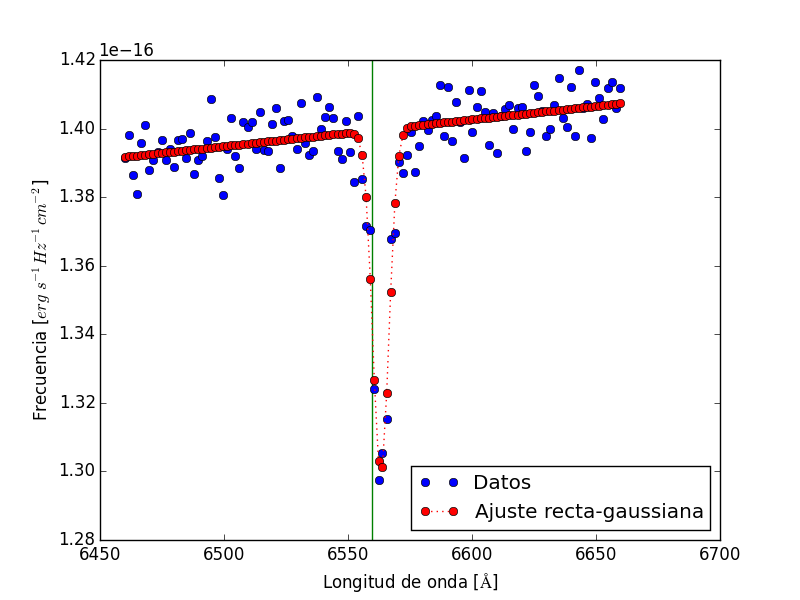
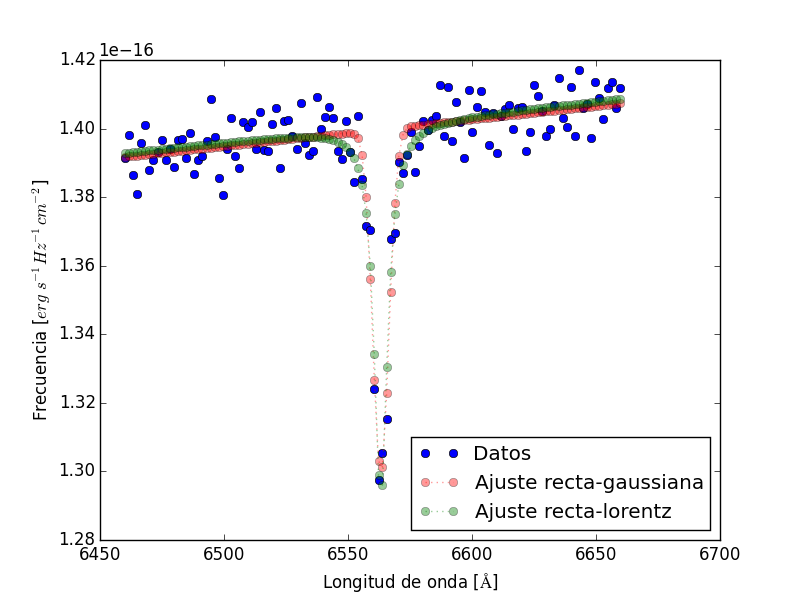
se juntan ambas figuras en una sola

Changed region(s): [[0.125, 0.12, 0.9062, 0.9], [0.5, 0.15, 0.7812, 0.3], [0.5312, 0.84, 0.5938, 0.87]]

diff --git a/p1.py b/p1.py
@@ -24,31 +24,18 @@ sigma = np.sqrt(sum((wavelength-mean)**2)/n)
 # primer caso
 popt1, pcov1 = curve_fit(recta_gaussiana, wavelength, fnu,
                        [1e-16, 1e-20, 1e-17, mean, sigma])
+popt2, pcov2 = curve_fit(recta_lorentz, wavelength, fnu,
+                       [1e-16, 1e-20, 1e-17, mean, sigma])
 fig = plt.figure(1)
 plt.clf()
-plt.axvline(mean, color='g')
 plt.plot(wavelength, fnu, 'o', label='Datos')
 plt.plot(wavelength, recta_gaussiana(wavelength,*popt1),'ro:',
-         label='Ajuste recta-gaussiana')
+         label='Ajuste recta-gaussiana', alpha=0.4)
+plt.plot(wavelength, recta_lorentz(wavelength,*popt2),'go:',
+         label='Ajuste recta-lorentz', alpha=0.4)
 plt.xlabel('Longitud de onda [$\AA$]')
 plt.ylabel('Frecuencia [$erg$ $s^{-1} Hz^{-1} cm^{-2}$]')
 plt.legend(loc=4)
 plt.draw()
 plt.show()
 plt.savefig('figura1.png')
-
-#segundo caso
-popt2, pcov2 = curve_fit(recta_lorentz, wavelength, fnu,
-                       [1e-16, 1e-20, 1e-17, mean, sigma])
-fig = plt.figure(2)
-plt.clf()
-plt.axvline(mean, color='g')
-plt.plot(wavelength, fnu, 'o', label='Datos')
-plt.plot(wavelength, recta_lorentz(wavelength,*popt2),'ro:',
-         label='Ajuste recta-lorentz')
-plt.xlabel('Longitud de onda [$\AA$]')
-plt.ylabel('Frecuencia [$erg$ $s^{-1} Hz^{-1} cm^{-2}$]')
-plt.legend(loc=4)
-plt.draw()
-plt.show()
-plt.savefig('figura2.png')
